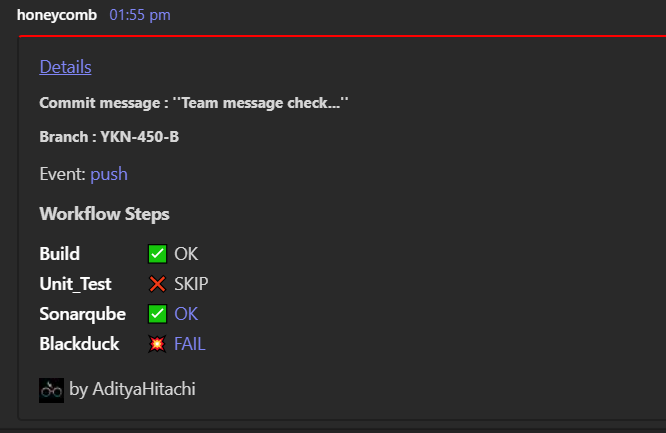
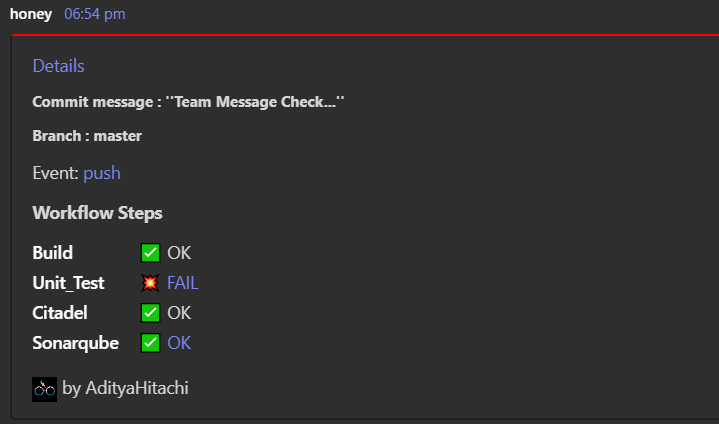
[HNC-461] : Enhancement Team notification action (#2)

diff --git a/src/index.py b/src/index.py
@@ -17,7 +17,7 @@ job_status_input = os.environ.get('JOB_STATUS')
 
 #Create message footer
 github_event_actor = os.environ.get('GITHUB_ACTOR')
-event_actor_icon_url = f"https://github.com/{github_event_actor}.png?size=20"
+event_actor_icon_url = f"https://github.com/{github_event_actor}.png"
 response = requests.get(event_actor_icon_url, allow_redirects=True)
 # Get the final redirected URL (the URL after all redirects)
 github_user_icon = response.url
@@ -40,12 +40,6 @@ github_run_id = os.environ.get('GITHUB_RUN_ID')
 #sonar login details
 sonar_host_url = os.environ.get('SONAR_HOST_URL')
 sonar_project_key = os.environ.get('SONAR_PROJECT_KEY')
-# ---
-
-#Blackduck details
-blackduck_server_url = os.environ.get('BLACKDUCK_SERVER_URL')
-blackduck_proj_id = os.environ.get('BLACKDUCK_PROJ_ID')
-blackduck_version_id = os.environ.get('BLACKDUCK_VERSION_ID')
 # ---
 
 #Set Workflow details Url
@@ -88,9 +82,9 @@ def step_track(steps_input):
         
     # Define desired sequence based on event type
     if github_event_name != "pull_request" and github_event_name != "pull_request_target":
-        if 'Blackduck' not in steps_input:
-            steps_input['Blackduck'] = {'outputs': {}, 'outcome': 'skipped', 'conclusion': 'skipped'}
-        desired_sequence = ['Build', 'Unit_Test', 'Sonarqube', 'Blackduck']
+        if 'Citadel' not in steps_input:
+            steps_input['Citadel'] = {'outputs': {}, 'outcome': 'skipped', 'conclusion': 'skipped'}
+        desired_sequence = ['Build', 'Unit_Test', 'Citadel', 'Sonarqube']
     else:
         desired_sequence = ['Build', 'Unit_Test', 'Sonarqube']
 
@@ -113,27 +107,16 @@ if sonar_host_url and sonar_project_key:
 else:
     generate_sonarqube_url = ""
 
-# Blackduck url generation
-if github_event_name != "pull_request" and github_event_name != "pull_request_target":
-    if blackduck_server_url != "":
-        genereted_blackduck_url = f"{blackduck_server_url}/api/projects/{blackduck_proj_id}/versions/{blackduck_version_id}/components"
-    else:
-        genereted_blackduck_url = ""
-else:
-    genereted_blackduck_url = ""
-
 # Unit Test Url link from honeycomb
 generated_unit_test_url = os.environ.get('UNIT_TEST_URL')
 
 # Function to Replace link in message
-def replace_values_with_links(data,sonarqube_url,unit_test_url,blackduck_url): 
+def replace_values_with_links(data,sonarqube_url,unit_test_url): 
     for item in data:
         if item['name'] == 'Unit_Test' and item['value'] != '❌ SKIP' and unit_test_url:
             item['value'] = f'<a href="{unit_test_url}">{item["value"]}</a>'
         elif item['name'] == 'Sonarqube' and item['value'] != '❌ SKIP' and sonarqube_url:
             item['value'] = f'<a href="{sonarqube_url}">{item["value"]}</a>'
-        elif item['name'] == 'Blackduck' and item['value'] != '❌ SKIP' and blackduck_url:
-            item['value'] = f'<a href="{blackduck_url}">{item["value"]}</a>'
     return data
 
 #Creating teams message Structure using json_payload
@@ -181,13 +164,13 @@ else:
         json_payload["sections"].append({"text": "<h2><strong>Workflow Steps</strong></h2>"})
         
         #Updating fact_list with link
-        final_fact_list = replace_values_with_links(fact_list,generate_sonarqube_url,generated_unit_test_url,genereted_blackduck_url)
+        final_fact_list = replace_values_with_links(fact_list,generate_sonarqube_url,generated_unit_test_url)
         
         #Setting Steps Names and status icon
         json_payload["sections"].append({"facts": final_fact_list})
         
         #Setting footer of message
-        json_payload["sections"].append({"text": f'<img src="{github_user_icon}"> by {github_event_actor}'})
+        json_payload["sections"].append({"text": f'<img src="{github_user_icon}" style="width: 20px; height: 20px;"> by {github_event_actor}'})
 
 def teams_message_send(webhook_input, json_payload):
     headers = {'Content-Type': 'application/json'}

diff --git a/README.md b/README.md
@@ -6,15 +6,15 @@ This action explicitly tracks some specific steps within pull request and merge 
 
 - For the pull request workflow, this action keeps track of whether the **[Build, Unit Test, and SonarQube]** steps were skipped, executed, or encountered failures. 
 
-- For the merge request workflow, this action monitors and records the status of the **[Build, Unit Test, SonarQube, and Blackduck]** steps, tracking whether they were skipped, executed successfully, or experienced failures.
+- For the merge request workflow, this action monitors and records the status of the **[Build, Unit Test, SonarQube, and Citadel]** steps, tracking whether they were skipped, executed successfully, or experienced failures.
 
-To track Builds, SonarQube analysis, Unit tests, and Black Duck scans within our team's notifications, we need to include unique identifiers when triggering GitHub Actions for each specific step. 
+To track Builds, SonarQube analysis, Unit tests, and Citadel scans within our team's notifications, we need to include unique identifiers when triggering GitHub Actions for each specific step. 
 
 Below are id values for each  step :
 1) Build step: Build
 2) Unit Test step: Unit_Test
 3) Sonarqube Scan: Sonarqube
-4) Blackduck Scan: Blackduck
+4) Citadel Scan: Citadel
 
 ### Example 
 ```
@@ -33,8 +33,8 @@ Below are id values for each  step :
 - name: Sonarqube Scan
   id: Sonarqube
 
-- name: Blackduck Scan
-  id: Blackduck
+- name: Citadel Scan
+  id: Citadel
 ```
 **Note - If we do not provide these ID values to their respective steps, all steps will be automatically marked as skipped**
 
@@ -67,9 +67,6 @@ Below are id values for each  step :
     teams_Webhook_Url: '${{ secrets.TEAMS_WEBHOOK_URL }}' 
     sonar_Host_Url: '${{env.SONAR_HOST_URL}}'              # Server URL for SonarQube, e.g.,https://sonar.orl.eng.hitachivantara.com
     sonar_Project_Key: '${{env.SONAR_PROJECT_KEY}}'        # Project key for SonarQube, e.g.,multi-module-tester
-    blackDuck_Server_Url: '${{env.BLACKDUCK_SERVER_URL}}'  # Serve URL for Blackduck, e.g.,https://orion.orl.eng.hitachivantara.com
-    blackDuck_ProjId: '${{env.BLACKDUCK_PROJ_ID}}'         # Blackduck Project ID e.g.,06641177-59f0-4310-833c-8c04e6bd84f4
-    blackDuck_VersionId: '${{env.BLACKDUCK_VERSION_ID}}'   # Blackduck Version ID e.g.,f9378655-8282-44d3-a49b-bff0ebf2a032
     unit_test_url: 'e.g.,https://test.test'                # Unit test report link, Currently it's only work with Honeycomb CI/CD pipeline
 ```
 **Note - The hyperlink will appear in the message only if the step is executed and valid inputs for the hyperlink are passed to the action**
